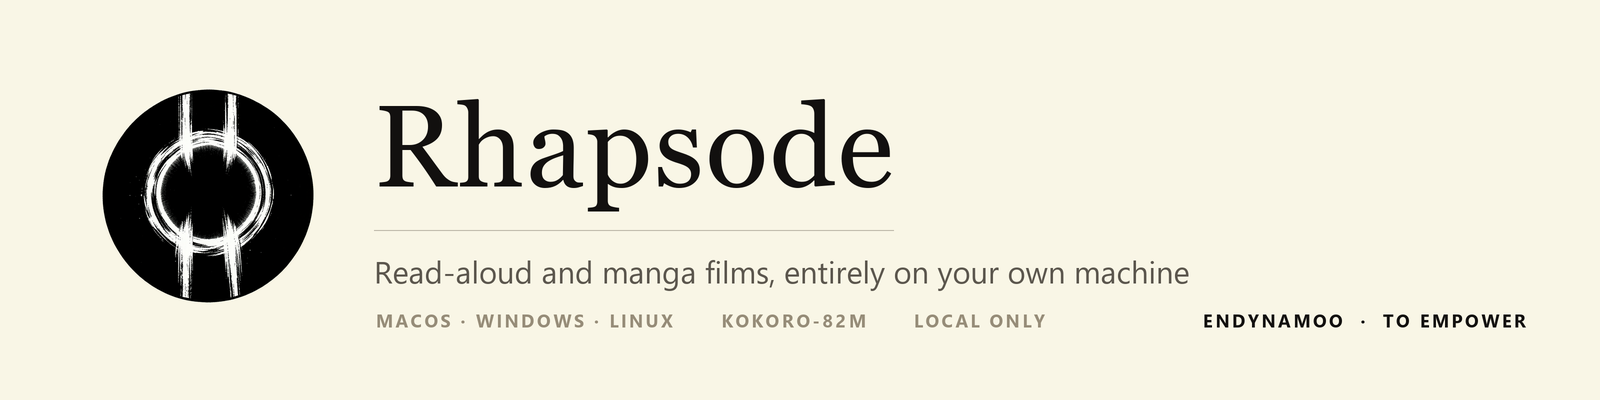
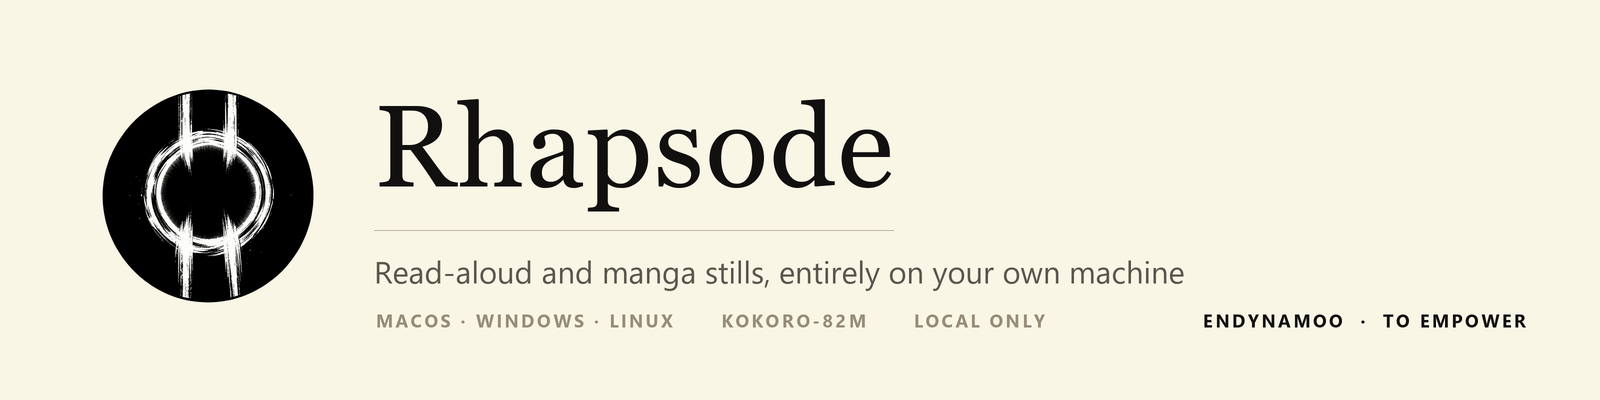
Describe the product as stills, not films
Rhapsode paints one still per beat and assembles those stills into a chapter cut;
no motion is synthesized and no video model runs. README pitch, feature bullet,
platform table, banner tagline and repo description now say so, FILMS.md became
STILLS.md, and ARCHITECTURE notes that the internal film* names are legacy.

Changed region(s): [[0.4375, 0.63, 0.75, 0.72]]

diff --git a/scripts/make_banner.py b/scripts/make_banner.py
@@ -113,7 +113,7 @@ def main() -> None:
     tag_font = font("segoeui.ttf", 31 * S)
     draw.text(
         (text_x, rule_y + int(20 * S)),
-        "Read-aloud and manga films, entirely on your own machine",
+        "Read-aloud and manga stills, entirely on your own machine",
         font=tag_font,
         fill=BODY,
     )

diff --git a/docs/STILLS.md b/docs/STILLS.md
@@ -1,18 +1,20 @@
-# Manga view and chapter films
+# Manga stills and chapter stills
 
-The **Manga** view turns narration into monochrome manga key images. Each 60–90
-seconds of narration gets one still (about 4–8 images for a typical chapter), shown
-with a calm crossfade and a constant slow zoom. **Create chapter film** renders the
-same beats to a 1920×1080 MP4 with 1.2-second dissolves and subtitles.
+Rhapsode does not generate motion. The **Manga** view turns narration into
+monochrome manga key images: each beat of the chapter gets one still, painted
+locally, shown with a calm crossfade and a constant slow zoom. **Create chapter
+film** assembles those same stills against the narration into a 1920×1080 MP4 with
+1.2-second dissolves and subtitles — a stills cut, not an animated sequence. No
+video model runs anywhere in the app.
 
-- **Key images, not every sentence.** The planner groups 3–20 sentences into one
-  representative beat, so a 7-minute chapter is a handful of images instead of
+- **Stills, not every sentence.** The planner groups 3–20 sentences into one
+  representative beat, so a 7-minute chapter is a handful of stills instead of
   dozens. Subtitles still follow every spoken sentence.
 - **Painted ahead, then served.** A background worker renders key stills into
   `film/<doc>/scenes/` inside the data directory. The Manga view serves cached
   frames and shows a "Painting scene…" pill otherwise.
 - **A cast per book.** The prompt writer extracts the recurring cast once; each
-  character gets a clean full-body portrait on white. The film anchors to the
+  character gets a clean full-body portrait on white. The stills cut anchors to the
   portrait of the character named in the beat, using the previous frame only
   between anchors so faces and costumes do not drift.
 - **Shot variety.** Framing rotates through establishing wide, medium two-shot,
@@ -28,19 +30,19 @@ same beats to a 1920×1080 MP4 with 1.2-second dissolves and subtitles.
 - **Steady motion.** No alternating Ken Burns direction or panning. Each image zooms
   1.00 → 1.04 at the centre, rendered at 2560×1440/30 and downsampled to
   1920×1080/30. Beats dissolve into each other over 1.2 s.
-- **Background film queue.** **Create chapter film** queues the job and returns
+- **Background queue.** **Create chapter film** queues the job and returns
   immediately. You can keep reading, watch Manga, or queue another chapter; each job
   shows Painting → Narrating → Encoding → Ready with its own Download, Cancel and
   Dismiss controls.
 - **Watch while painting.** Manga playback starts narration immediately instead of
   waiting for the whole chapter to be painted. The current scene loads on demand and
   the next two scenes are prefetched.
-- **Cached re-films.** A chapter film is reused instantly when its plan, images,
+- **Cached re-cuts.** A chapter is reused instantly when its plan, images,
   voice, quality, and render settings are unchanged. Changing one still re-renders
   only that chapter.
-- **Encoding.** Film export uses the system `ffmpeg` (`brew install ffmpeg`). If that
+- **Encoding.** The MP4 export uses the system `ffmpeg` (`brew install ffmpeg`). If that
   build includes libass, karaoke subtitles are burned in; otherwise they are attached
-  as a soft `mov_text` track so the film still plays. H.264 + AAC, hardware encoded
+  as a soft `mov_text` track so the cut still plays. H.264 + AAC, hardware encoded
   where possible.
 
 ## Install the high-quality engine once
@@ -58,7 +60,7 @@ unchanged chapter is instant.
 
 ## GPU support
 
-| Platform | Films |
+| Platform | Stills |
 |---|---|
 | macOS Apple Silicon | MPS + MLX, full quality |
 | macOS Intel | CPU only, opt-in |
@@ -68,7 +70,7 @@ unchanged chapter is instant.
 
 ## Murmur engine sidecar
 
-The film pipeline can run as a standalone local service, separate from the Rhapsode
+The stills pipeline can run as a standalone local service, separate from the Rhapsode
 window:
 
 ```bash
@@ -76,7 +78,7 @@ window:
 # or: MURMUR_ENGINE_PORT=8931 .venv/bin/python -m murmur.engine_api
 ```
 
-It exposes the same film contract as the app:
+It exposes the same contract as the app (the routes are still named `film`):
 
 - `GET /health`, `GET /version`
 - `GET /api/film/plan`, `GET /api/film/images`

diff --git a/README.md b/README.md
@@ -1,6 +1,6 @@
-<img src="branding/banner.png" alt="Rhapsode — read-aloud and manga films, entirely on your own machine" width="100%">
+<img src="branding/banner.png" alt="Rhapsode — read-aloud and manga stills, entirely on your own machine" width="100%">
 
-A read-aloud and manga-film app that runs entirely on your own machine. Drop in a
+A read-aloud app that paints manga stills, entirely on your own machine. Drop in a
 book, a PDF, a scanned page or a screenshot and it reads to you in a local voice —
 no account, no cloud, no per-word billing.
 
@@ -17,8 +17,11 @@ no account, no cloud, no per-word billing.
   macOS, Tesseract on Windows and Linux.
 - **On-device translation** — read a foreign book in your own language, or in the
   foreign voice with the translation shown under the player.
-- **Manga and chapter films** — each beat of the book gets a locally generated
-  still, animated and subtitled, or exported as a 1080p MP4.
+- **Manga stills** — the narration is planned into beats and each beat gets one
+  locally generated still. Chapter view plays those stills against the voice with
+  a slow drift and a dissolve, and a chapter can be assembled into a 1080p MP4 cut
+  to the narration. Nothing is animated: the pictures stay still, and no video
+  model is involved.
 - **Quick Read** — one hotkey reads whatever is selected in any app; with no
   selection it OCRs the clipboard image.
 - 54 voices · 9 languages · 0.75–3× speed · 20 themes · your place remembered per
@@ -56,7 +59,7 @@ verification checklist live in **[AGENTS.md](AGENTS.md)**.
 | Doc | Contents |
 |---|---|
 | [docs/USAGE.md](docs/USAGE.md) | Keyboard map, Quick Read, translation, OCR knobs, remote access, where your data lives, troubleshooting |
-| [docs/FILMS.md](docs/FILMS.md) | Manga view, chapter films, the Murmur engine sidecar |
+| [docs/STILLS.md](docs/STILLS.md) | Manga stills, chapter stills, the Murmur engine sidecar |
 | [docs/ARCHITECTURE.md](docs/ARCHITECTURE.md) | Module map, pipelines, API surface, security model, UML |
 | [docs/PLATFORMS.md](docs/PLATFORMS.md) | Windows and Linux port, GPU backend plan, packaging |
 | [AGENTS.md](AGENTS.md) | The install and build guide, written to be followed by an agent |
@@ -64,14 +67,14 @@ verification checklist live in **[AGENTS.md](AGENTS.md)**.
 
 ## Platform status
 
-| Platform | Read / TTS / highlight | Chapter films | Native bundle |
+| Platform | Read / TTS / highlight | Chapter stills → MP4 | Native bundle |
 |---|---|---|---|
 | macOS 13+ (Apple Silicon) | supported | supported (MPS + MLX) | `.app` |
 | macOS Intel | supported | CPU only, opt-in | `.app` |
 | Windows 10/11 x64 | preview, source install | NVIDIA CUDA; CPU opt-in | community PyInstaller build |
 | Linux x64 | preview, source install | NVIDIA CUDA; CPU opt-in | not yet |
 
-AMD DirectML/ROCm and Intel OpenVINO are planned, not wired into the film
+AMD DirectML/ROCm and Intel OpenVINO are planned, not wired into the still
 pipeline yet — see [docs/PLATFORMS.md](docs/PLATFORMS.md).
 
 ## How this was built

diff --git a/docs/ARCHITECTURE.md b/docs/ARCHITECTURE.md
@@ -231,6 +231,11 @@ Notes:
 
 ## 4. Chapter film pipeline
 
+The internal names still say *film* — `film.py`, `film_api.py`, `/api/film/*` — but
+what the pipeline produces is stills: one generated image per beat, played against
+the narration. The MP4 is those stills assembled with dissolves and subtitles. No
+motion is synthesized, and no video model is loaded.
+
 ```mermaid
 sequenceDiagram
     actor Reader

diff --git a/docs/USAGE.md b/docs/USAGE.md
@@ -1,7 +1,7 @@
 # Using Rhapsode
 
 Everything on this page is day-to-day use. Install instructions are in
-[../AGENTS.md](../AGENTS.md); films are in [FILMS.md](FILMS.md); internals are in
+[../AGENTS.md](../AGENTS.md); manga stills are in [STILLS.md](STILLS.md); internals are in
 [ARCHITECTURE.md](ARCHITECTURE.md).
 
 ## Keyboard and mouse
